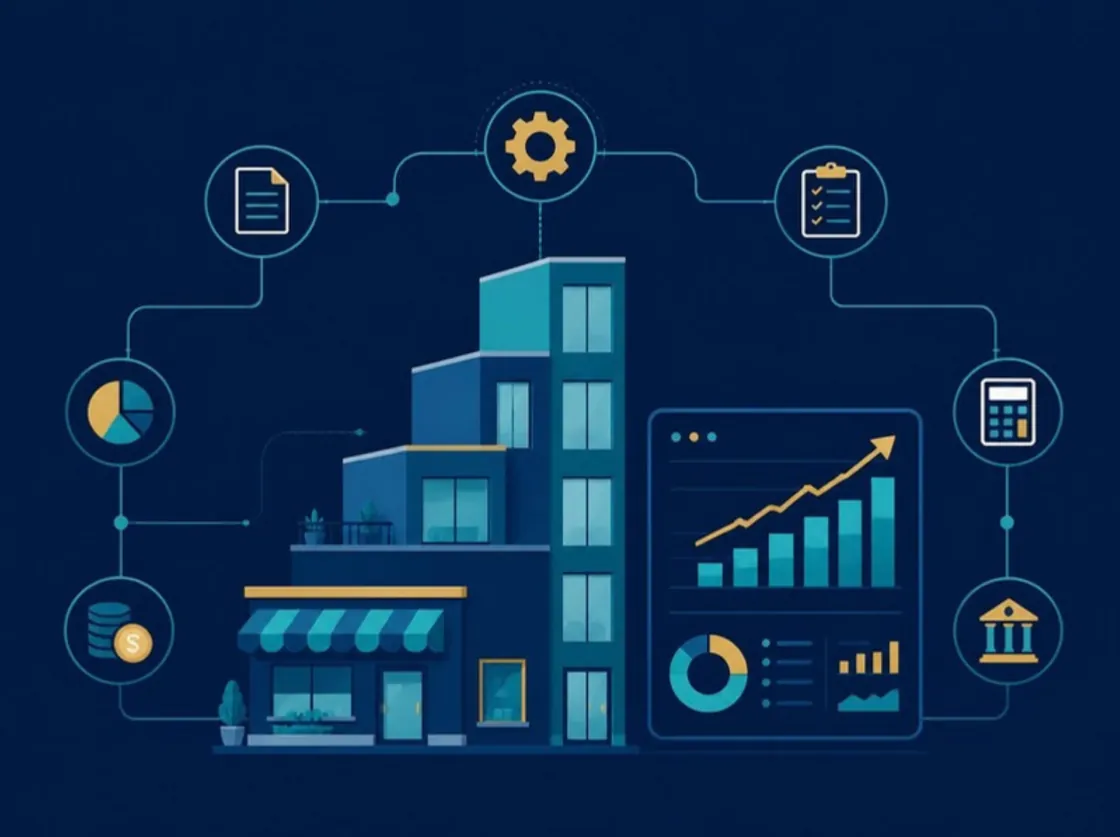
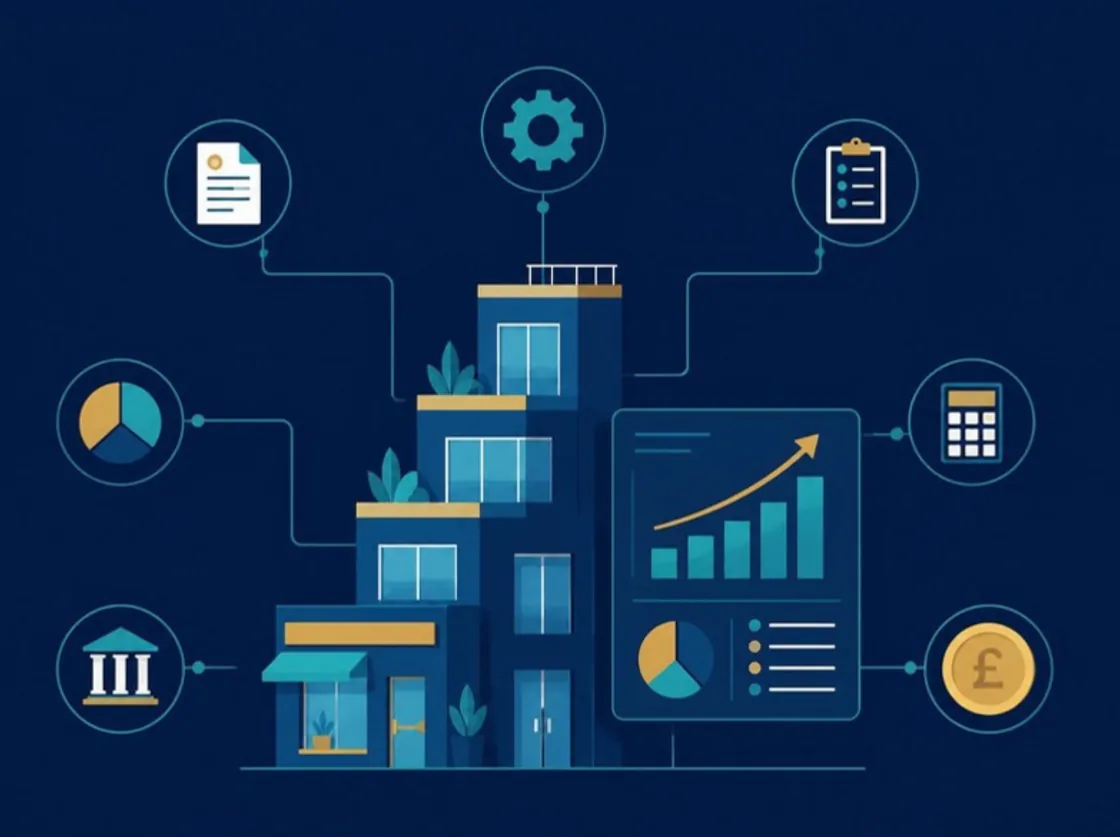
Add illustrations to the remaining six pages and fix the £ coin
New Canva scenes in the Engagement models, Security, Careers, FAQs,
Insights and Sectors heroes. The For business scene is regenerated so
its coin shows a pound sign instead of a dollar sign; the asset hash
changes, so browsers pick up the new file straight away.

Claude-Session: https://claude.ai/code/session_01BGmGj1ubMoC9oqqYo8PGDh

diff --git a/CLAUDE.md b/CLAUDE.md
@@ -76,8 +76,9 @@ edit cells.
   scenes, `cat-<category>-480/800.webp` for white spots). Use
   `illoScene(name)` / `illoSpot(category)` from `src/components.mjs`.
   Scenes: Home, Services, For accountants, For business, How we work,
+  Engagement models, Security, Careers, FAQs, Insights, Sectors and
   Contact heroes, and the Strategic Partners "How our partnerships work"
-  section. Spots: every service page hero (by category) and the Services
+  section. The For business scene was regenerated with a £ coin. Spots: every service page hero (by category) and the Services
   category tabs. Motion is a slow CSS float, off under reduced motion.
   The home proposition card moved from the hero to a section just below it.
   thebpo.net was the loose reference, but B4ES keeps its own look.
@@ -113,9 +114,8 @@ edit cells.
   b4es.co.uk DNS at Abacus (it asked for A records → 66.71.220.1); that
   would take the live site and contact form off Cloudflare. Test on a
   subdomain first if hosting there is ever wanted.
-- **Illustrations not yet on**: Engagement models, Security, Careers,
-  FAQs, Insights, Sectors (About and Why Us keep their SVGs; legal pages
-  stay plain). The For business scene has a small "$" coin; regenerate it
-  in Canva if the partners want it gone. No stats/counters for now (Yawar).
+- **Illustrations**: every page now has one except About and Why Us (keep
+  their SVGs), insight articles, legal pages and the 404 (plain by choice).
+  No stats/counters for now (Yawar).
 - Placeholders still empty in `src/data/site.mjs`: phone, Companies House
   number, ICO reference, LinkedIn URL.
